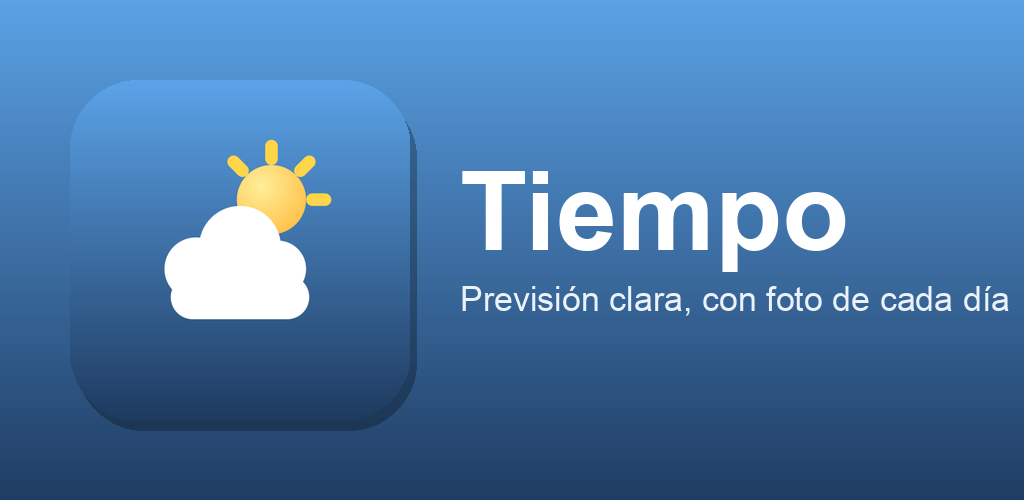
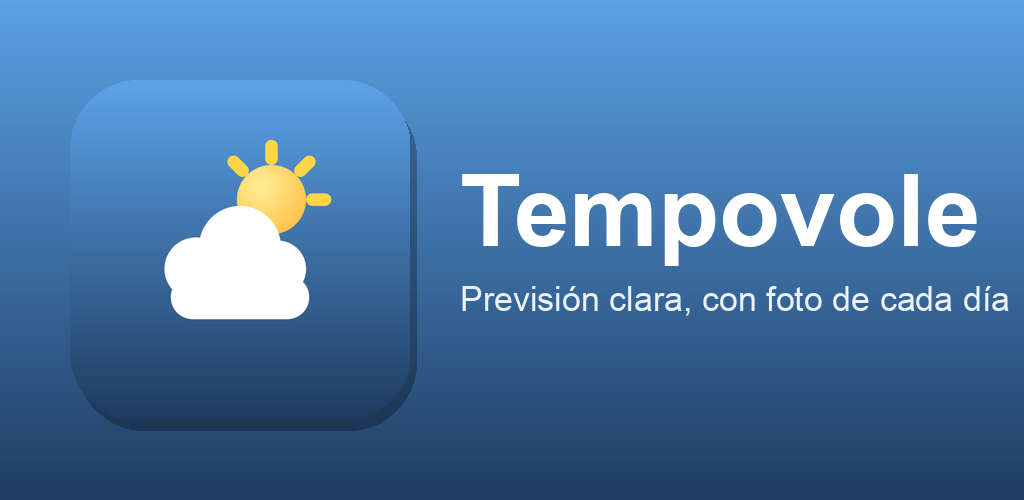
Renombra la app de Tiempo a Tempovole
Cambia el nombre visible en toda la app: app_name, pantalla de Info,
términos de uso y política de privacidad, widget de pantalla de inicio,
landing page y política publicadas en docs/, README y assets de Play
Store. Renombra también las clases internas relacionadas (TiempoWidget
-> TempovoleWidget, TiempoTheme -> TempovoleTheme, etc.) y el
applicationId (com.giuliandominici.tiempo -> .tempovole), ya que la app
todavía no se publicó.

No toca el namespace del paquete Kotlin (com.example.tiempo) ni el
nombre del archivo keystore, por ser puramente internos y no visibles.

Changed region(s): [[0.4375, 0.33, 0.9688, 0.54]]

diff --git a/docs/privacidad.html b/docs/privacidad.html
@@ -3,7 +3,7 @@
 <head>
 <meta charset="utf-8">
 <meta name="viewport" content="width=device-width, initial-scale=1">
-<title>Tiempo — Política de privacidad y términos de uso</title>
+<title>Tempovole — Política de privacidad y términos de uso</title>
 <style>
   :root { color-scheme: light dark; }
   body {
@@ -31,25 +31,25 @@
 </head>
 <body>
 
-<h1>Tiempo</h1>
-<p class="fecha">Política de privacidad y términos de uso · Última actualización: 21 de septiembre de 2026</p>
+<h1>Tempovole</h1>
+<p class="fecha">Política de privacidad y términos de uso · Última actualización: 29 de septiembre de 2026</p>
 
 <div class="destacado">
-  <strong>En resumen:</strong> Tiempo no tiene cuentas de usuario, no muestra publicidad, no
+  <strong>En resumen:</strong> Tempovole no tiene cuentas de usuario, no muestra publicidad, no
   incluye analítica ni rastreadores, y no envía ningún dato personal a ningún servidor propio
   (no hay servidor propio). Lo que configuras se queda guardado en tu móvil.
 </div>
 
 <h2>1. Quién es el responsable</h2>
 <p>
-  Tiempo es una aplicación desarrollada de forma independiente por un particular. Para
+  Tempovole es una aplicación desarrollada de forma independiente por un particular. Para
   cualquier cuestión relacionada con esta política puedes escribir a
   <a href="mailto:giuliandominici@gmail.com">giuliandominici@gmail.com</a>.
 </p>
 
 <h2>2. Qué datos recoge la aplicación</h2>
 <p>
-  <strong>Ninguno.</strong> Tiempo no recoge, almacena ni transmite datos personales. En
+  <strong>Ninguno.</strong> Tempovole no recoge, almacena ni transmite datos personales. En
   concreto, la aplicación <em>no</em> hace nada de lo siguiente:
 </p>
 <ul>
@@ -130,7 +130,7 @@
 
 <h2>6. Menores</h2>
 <p>
-  Tiempo no está dirigida específicamente a menores de edad y, al no recoger datos personales de
+  Tempovole no está dirigida específicamente a menores de edad y, al no recoger datos personales de
   nadie, tampoco recoge datos de menores.
 </p>
 
@@ -138,7 +138,7 @@
 <p>
   La normativa de protección de datos (RGPD y equivalentes) reconoce derechos de acceso,
   rectificación, supresión y oposición sobre los datos personales. Dado que el desarrollador de
-  Tiempo no recibe, almacena ni trata ningún dato personal tuyo, no existe información sobre la
+  Tempovole no recibe, almacena ni trata ningún dato personal tuyo, no existe información sobre la
   que ejercer esos derechos frente a él. Toda la información de la aplicación está en tu
   dispositivo y bajo tu control. Si tienes cualquier duda, puedes escribir a la dirección
   indicada en el punto 1.
@@ -154,7 +154,7 @@
 
 <h3>Uso de la aplicación</h3>
 <p>
-  Tiempo se ofrece «tal cual», con fines informativos y sin garantía de disponibilidad ni de
+  Tempovole se ofrece «tal cual», con fines informativos y sin garantía de disponibilidad ni de
   exactitud de los datos mostrados.
 </p>
 
@@ -186,7 +186,7 @@
 </p>
 
 <footer>
-  Tiempo · Aplicación de previsión meteorológica para Android ·
+  Tempovole · Aplicación de previsión meteorológica para Android ·
   <a href="https://github.com/Gogiu23/Tempovole">código fuente</a>
 </footer>
 

diff --git a/app/src/main/java/com/example/tiempo/ui/WeatherScreen.kt b/app/src/main/java/com/example/tiempo/ui/WeatherScreen.kt
@@ -666,7 +666,7 @@ private fun InfoScreen(onBack: () -> Unit) {
 
         Column(verticalArrangement = Arrangement.spacedBy(4.dp)) {
             Text(
-                text = "Tiempo",
+                text = "Tempovole",
                 color = Color.White,
                 fontSize = 20.sp,
                 fontWeight = FontWeight.SemiBold
@@ -686,7 +686,7 @@ private fun InfoScreen(onBack: () -> Unit) {
 
         LegalSection(
             title = "Términos de uso",
-            body = "Tiempo se ofrece \"tal cual\", con fines informativos, sin garantía de " +
+            body = "Tempovole se ofrece \"tal cual\", con fines informativos, sin garantía de " +
                 "disponibilidad ni de exactitud de los datos mostrados.\n\n" +
                 "Los datos meteorológicos proceden de Open-Meteo y pueden contener errores " +
                 "o retrasos; no uses esta app como única fuente para decisiones que " +
@@ -704,7 +704,7 @@ private fun InfoScreen(onBack: () -> Unit) {
 
         LegalSection(
             title = "Política de privacidad",
-            body = "Tiempo no requiere registro ni cuenta, y no recoge datos personales " +
+            body = "Tempovole no requiere registro ni cuenta, y no recoge datos personales " +
                 "identificables.\n\n" +
                 "Ubicación: la app no usa el GPS del dispositivo. Por defecto muestra " +
                 "Barcelona; si buscas otra ciudad en Ajustes, el texto que escribes se " +
@@ -3465,7 +3465,7 @@ private const val PRIVACY_POLICY_URL = "https://gogiu23.github.io/Tempovole/priv
  * Nombre con el que la app esta registrada en Unsplash. Sus normas exigen que los enlaces
  * de credito lleven este origen para que el fotografo vea de donde le llegan las visitas.
  */
-private const val UNSPLASH_UTM_SOURCE = "Tiempo"
+private const val UNSPLASH_UTM_SOURCE = "Tempovole"
 
 /** Anade a un enlace de Unsplash los parametros de origen que exigen sus normas. */
 private fun String.withUnsplashUtm(): String {

diff --git a/app/src/main/java/com/example/tiempo/widget/WidgetUpdater.kt b/app/src/main/java/com/example/tiempo/widget/WidgetUpdater.kt
@@ -45,10 +45,10 @@ object WidgetUpdater {
                 runCatching {
                     val mode = WidgetPreferences.getBackground(appContext).name
                     val color = WidgetPreferences.getColor(appContext).argb
-                    val widget = TiempoWidget()
+                    val widget = TempovoleWidget()
 
                     GlanceAppWidgetManager(appContext)
-                        .getGlanceIds(TiempoWidget::class.java)
+                        .getGlanceIds(TempovoleWidget::class.java)
                         .forEach { glanceId ->
                             updateAppWidgetState(appContext, glanceId) { prefs ->
                                 prefs[WidgetStateKeys.background] = mode

diff --git a/app/src/main/java/com/example/tiempo/MainActivity.kt b/app/src/main/java/com/example/tiempo/MainActivity.kt
@@ -14,7 +14,7 @@ import com.example.tiempo.notifications.NotificationHelper
 import com.example.tiempo.notifications.NotificationPreferences
 import com.example.tiempo.notifications.NotificationScheduler
 import com.example.tiempo.ui.WeatherScreen
-import com.example.tiempo.ui.theme.TiempoTheme
+import com.example.tiempo.ui.theme.TempovoleTheme
 
 class MainActivity : ComponentActivity() {
 
@@ -35,7 +35,7 @@ class MainActivity : ComponentActivity() {
         )
 
         setContent {
-            TiempoTheme {
+            TempovoleTheme {
                 WeatherScreen()
             }
         }

diff --git a/docs/index.html b/docs/index.html
@@ -3,7 +3,7 @@
 <head>
 <meta charset="utf-8">
 <meta name="viewport" content="width=device-width, initial-scale=1">
-<title>Tiempo — app de previsión meteorológica</title>
+<title>Tempovole — app de previsión meteorológica</title>
 <style>
   :root { color-scheme: light dark; }
   body {
@@ -22,7 +22,7 @@
 </head>
 <body>
 
-<h1>Tiempo</h1>
+<h1>Tempovole</h1>
 <p class="lema">
   La previsión de los próximos 7 días sobre fotos de paisajes que cambian con la hora
   y con el tiempo que va a hacer. Sin cuenta, sin anuncios y sin rastreo.

diff --git a/app/src/main/java/com/example/tiempo/widget/TempovoleWidgetReceiver.kt b/app/src/main/java/com/example/tiempo/widget/TempovoleWidgetReceiver.kt
@@ -3,6 +3,6 @@ package com.example.tiempo.widget
 import androidx.glance.appwidget.GlanceAppWidget
 import androidx.glance.appwidget.GlanceAppWidgetReceiver
 
-class TiempoWidgetReceiver : GlanceAppWidgetReceiver() {
-    override val glanceAppWidget: GlanceAppWidget = TiempoWidget()
+class TempovoleWidgetReceiver : GlanceAppWidgetReceiver() {
+    override val glanceAppWidget: GlanceAppWidget = TempovoleWidget()
 }

diff --git a/app/src/main/java/com/example/tiempo/widget/TempovoleWidget.kt b/app/src/main/java/com/example/tiempo/widget/TempovoleWidget.kt
@@ -54,7 +54,7 @@ import kotlin.math.roundToInt
 private val httpClient = OkHttpClient()
 private val timeFormatter = DateTimeFormatter.ofPattern("HH:mm")
 
-class TiempoWidget : GlanceAppWidget() {
+class TempovoleWidget : GlanceAppWidget() {
 
     override suspend fun provideGlance(context: Context, id: GlanceId) {
         val appContext = context.applicationContext

diff --git a/app/src/main/java/com/example/tiempo/ui/theme/Theme.kt b/app/src/main/java/com/example/tiempo/ui/theme/Theme.kt
@@ -23,7 +23,7 @@ private val DarkColors = darkColorScheme(
 )
 
 @Composable
-fun TiempoTheme(
+fun TempovoleTheme(
     darkTheme: Boolean = isSystemInDarkTheme(),
     dynamicColor: Boolean = true,
     content: @Composable () -> Unit

diff --git a/docs/TEMPOVOLE_DOCUMENTACION.md b/docs/TEMPOVOLE_DOCUMENTACION.md
@@ -1,4 +1,4 @@
-# Tiempo — Documentación Técnica
+# Tempovole — Documentación Técnica
 
 **Versión:** 1.2  
 **Fecha:** Septiembre 2026  
@@ -23,7 +23,7 @@
 
 ## 1. Visión general
 
-**Tiempo** es una aplicación de previsión meteorológica para Android que muestra el tiempo actual, la previsión por horas y por días (7 días), junto con datos adicionales opcionales (calidad del aire, polen, oleaje, caudal de ríos, comparación histórica, cambio climático e incertidumbre del modelo).
+**Tempovole** es una aplicación de previsión meteorológica para Android que muestra el tiempo actual, la previsión por horas y por días (7 días), junto con datos adicionales opcionales (calidad del aire, polen, oleaje, caudal de ríos, comparación histórica, cambio climático e incertidumbre del modelo).
 
 ### Características principales
 
@@ -504,7 +504,7 @@ object NotificationScheduler {
 Implementado con Jetpack Glance:
 
 ```kotlin
-class TiempoWidget : GlanceAppWidget() {
+class TempovoleWidget : GlanceAppWidget() {
     override suspend fun provideGlance(context: Context, id: GlanceAppWidgetId) {
         val forecast = WeatherRepository.fetch(location.lat, location.lon)
         
@@ -609,8 +609,8 @@ app/src/main/java/com/example/tiempo/
 │       ├── Theme.kt
 │       └── Type.kt
 └── widget/
-    ├── TiempoWidget.kt
-    ├── TiempoWidgetReceiver.kt
+    ├── TempovoleWidget.kt
+    ├── TempovoleWidgetReceiver.kt
     └── WidgetUpdater.kt
 ```
 

diff --git a/store-assets/play-console-answers.md b/store-assets/play-console-answers.md
@@ -49,7 +49,7 @@ eso se declara aparte, en el formulario de Seguridad de los datos (abajo).
   precisa del dispositivo en ningún momento)*
 - **¿Se recoge?** No queda almacenada en ningún servidor propio (la app no tiene
   backend). Márcalo según lo que ofrezca el formulario: si te obliga a elegir, usa
-  **"Compartida"**, no "Recogida" — Tiempo no guarda ni retiene el dato, solo lo
+  **"Compartida"**, no "Recogida" — Tempovole no guarda ni retiene el dato, solo lo
   reenvía para obtener la respuesta.
 - **¿Se comparte?** Sí, con **Open-Meteo** (previsión, calidad del aire/polen,
   histórico, marina, ríos, clima, ensemble) — todas ellas llamadas independientes al

diff --git a/README.md b/README.md
@@ -1,4 +1,4 @@
-# Tiempo
+# Tempovole
 
 Una app del tiempo para Android, sencilla y bonita: la previsión de los próximos 7 días
 sobre fotos de paisajes que cambian con la hora del día y con el tiempo que va a hacer.
